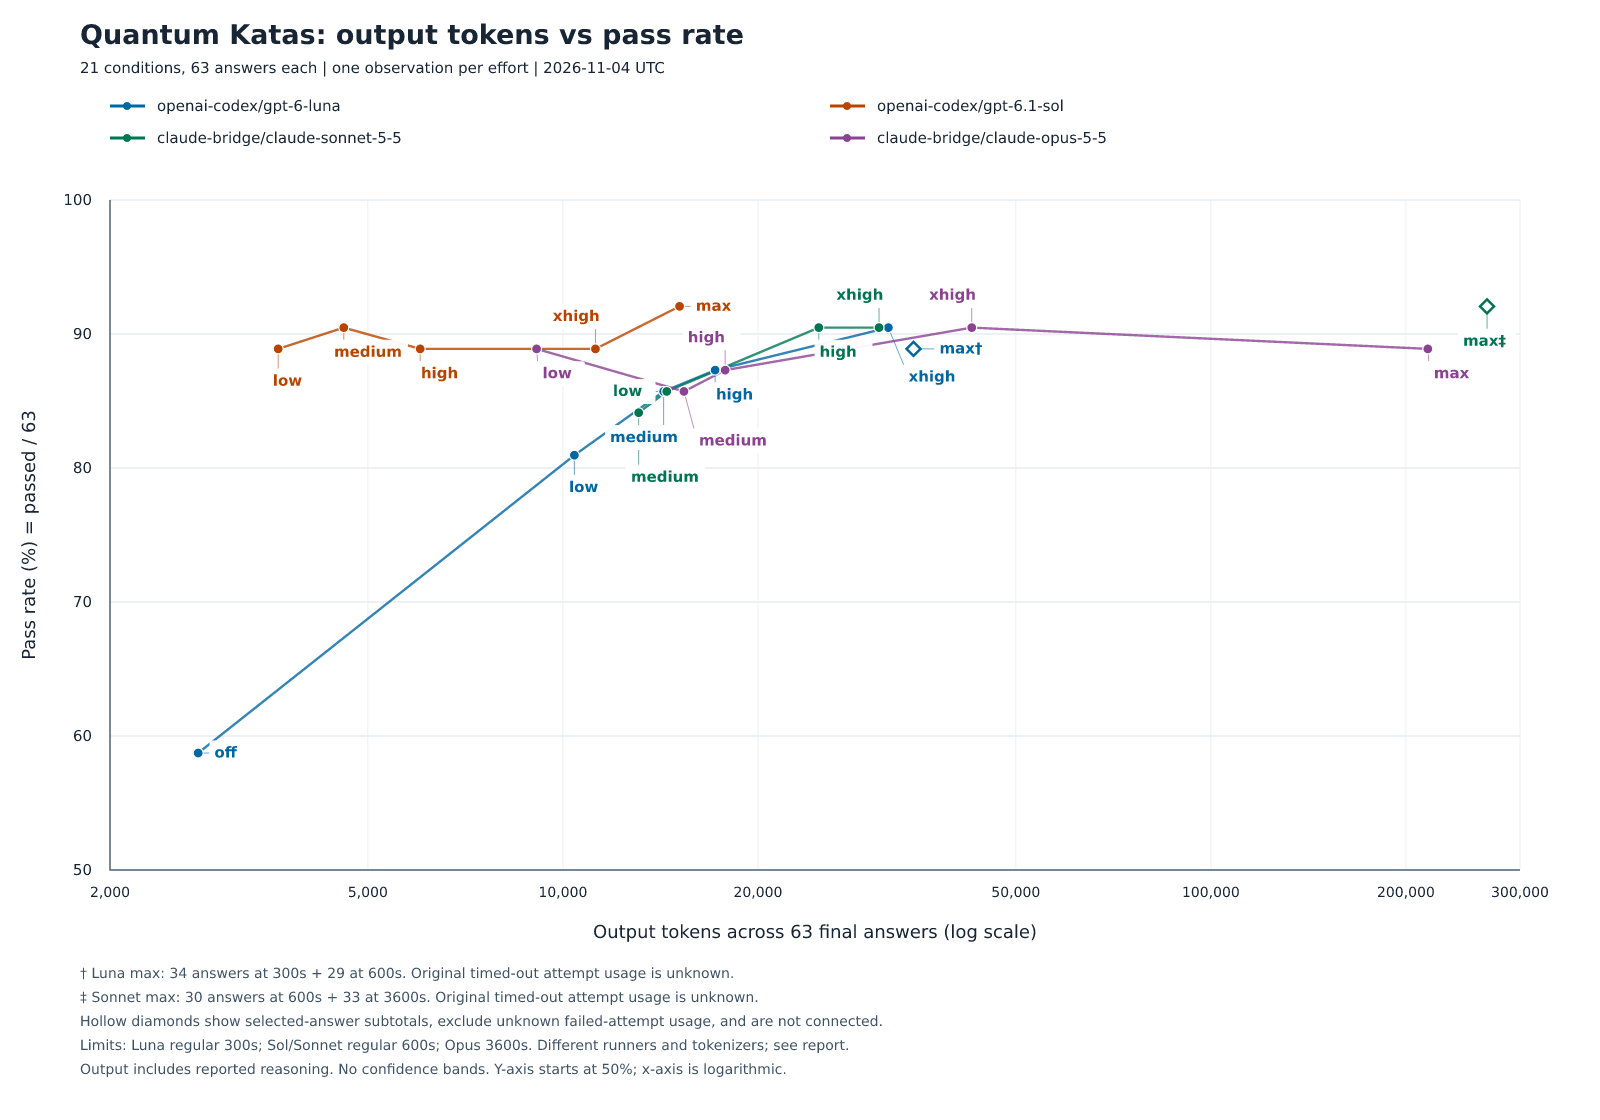
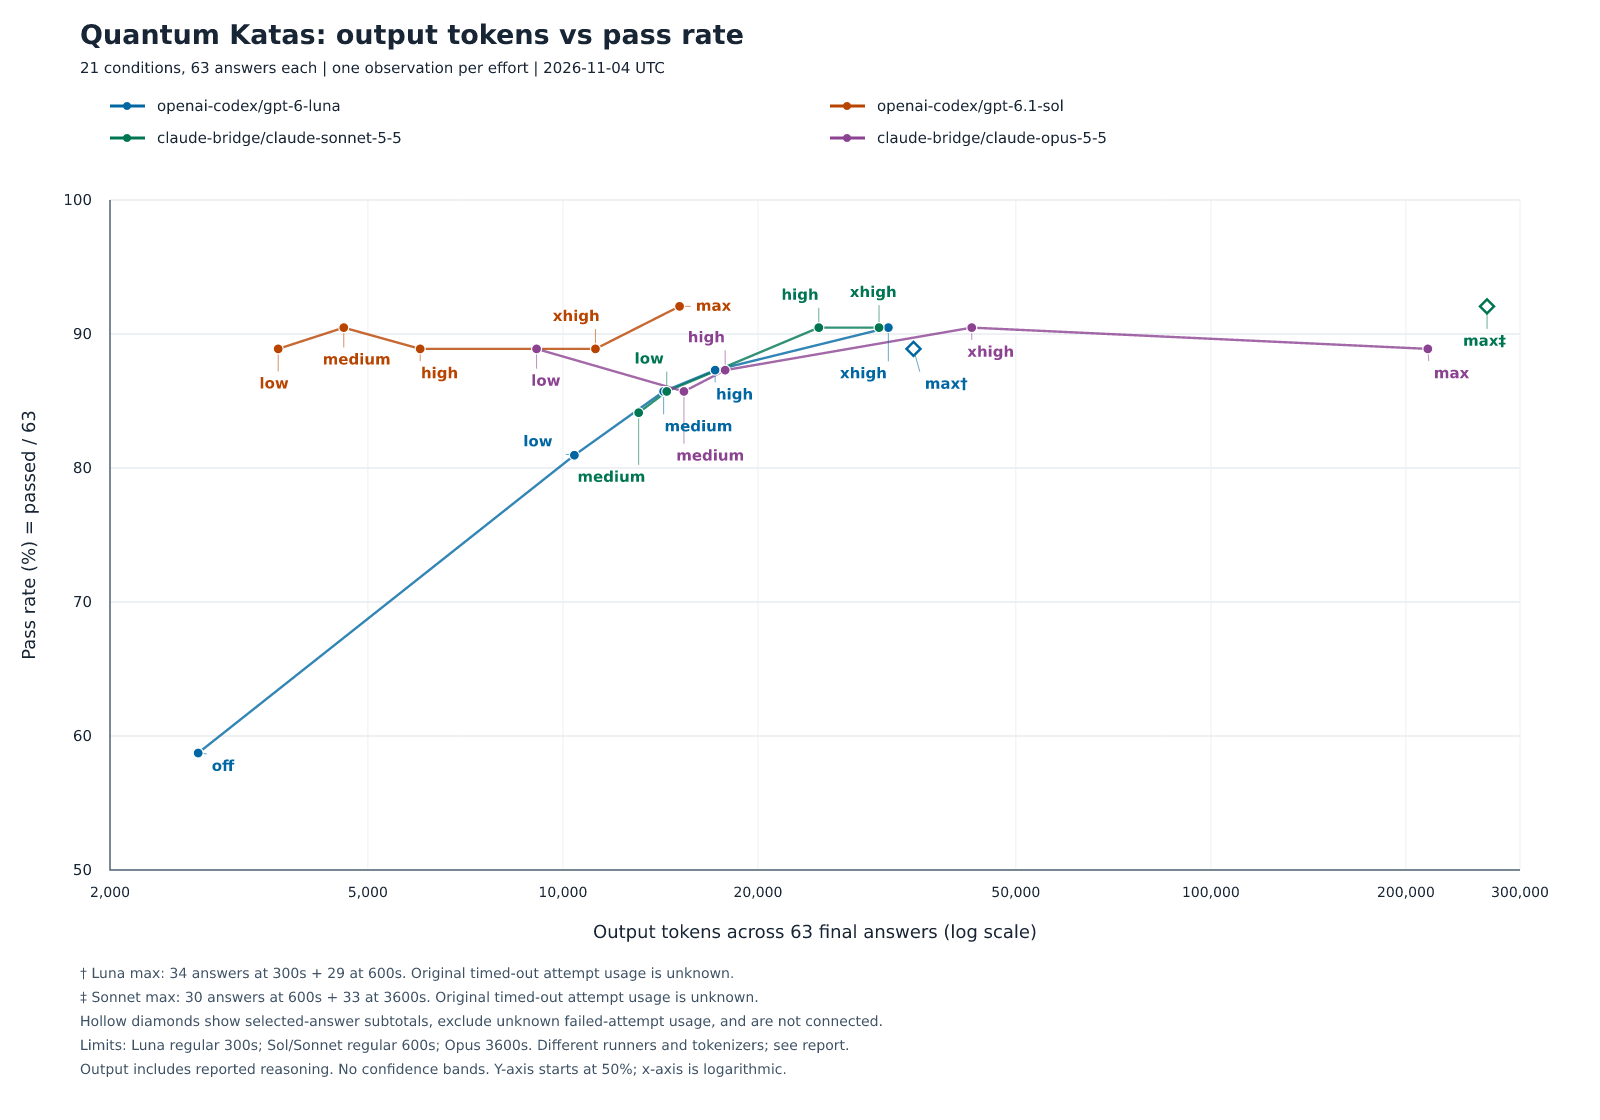
research: 集計の原コードを保存し比較図の線を隠さない
元の generatorSha256 と一致する収集コードおよび両継続条件の組み立てコードを保存し、非公開入力の要件と再導出の限界を説明する。隔離した入力の複製から既存5586ファイルの一致を確認済み。図のラベルと接続線の交差を避け、JSONと結果表の再生成一致も検証する。モデル呼び出しと再採点は行わない。

diff --git a/scripts/plot_model_effort_matrix.js b/scripts/plot_model_effort_matrix.js
@@ -75,6 +75,21 @@ function loadMatrix(
   const manifest = JSON.parse(
     fs.readFileSync(path.resolve(root, manifestPath))
   );
+  const derivationDir = `${BASE}/derivation-sources`;
+  const derivation = json(`${derivationDir}/source-index.json`);
+  assert.equal(derivation.schemaVersion, 1);
+  assert.deepEqual(Object.keys(derivation.sources).sort(), [
+    "assemble-luna-max-once.mjs",
+    "assemble-sonnet-max-once.mjs",
+    "collect-final-matrix.mjs",
+  ]);
+  for (const [source, expected] of Object.entries(derivation.sources))
+    verify(`${derivationDir}/${source}`, expected);
+  assert.equal(
+    derivation.sources["collect-final-matrix.mjs"],
+    manifest.generatorSha256,
+    "Collector identity mismatch"
+  );
   for (const [source, expected] of Object.entries(
     json(`${BASE}/source-artifact-sha256.json`)
   ))
@@ -459,6 +474,35 @@ function renderSvg(matrix) {
     py: y(p.passRatePercent),
     color: SERIES.find((s) => s.model === p.model).color,
   }));
+  const segments = SERIES.flatMap((s) => {
+    const points = positions
+      .filter((p) => p.model === s.model && !p.resumed)
+      .sort((a, b) => a.px - b.px);
+    return points.slice(1).map((p, i) => [points[i], p]);
+  });
+  // Liang-Barsky clipping: labels must not touch any model's connecting segment.
+  const intersects = ([a, b], box) => {
+    const dx = b.px - a.px,
+      dy = b.py - a.py;
+    let enter = 0,
+      leave = 1;
+    for (const [p, q] of [
+      [-dx, a.px - box.x + 3],
+      [dx, box.x + box.w + 3 - a.px],
+      [-dy, a.py - box.y + 3],
+      [dy, box.y + box.h + 3 - a.py],
+    ]) {
+      if (p === 0) {
+        if (q < 0) return false;
+      } else {
+        const t = q / p;
+        if (p < 0) enter = Math.max(enter, t);
+        else leave = Math.min(leave, t);
+        if (enter > leave) return false;
+      }
+    }
+    return true;
+  };
   const labels = [];
   for (const p of [...positions].sort((a, b) => a.py - b.py || a.px - b.px)) {
     const w = p.label.length * 10.5 + 16,
@@ -502,6 +546,7 @@ function renderSvg(matrix) {
       const score =
         (overlap ? 100000 : 0) +
         (marker ? 100000 : 0) +
+        (segments.some((s) => intersects(s, b)) ? 100000 : 0) +
         Math.hypot(dx + w / 2, dy + h / 2);
       if (!best || score < best.score) best = { score, box: b, point: p };
     }
@@ -536,7 +581,7 @@ function renderSvg(matrix) {
   }
   for (const l of labels)
     out.push(
-      `<rect x="${l.box.x}" y="${l.box.y}" width="${l.box.w}" height="${l.box.h}" rx="3" fill="white" fill-opacity="0.94"/><text x="${l.box.x + 5}" y="${l.box.y + 17}" fill="${l.point.color}" font-size="15" font-weight="bold">${xml(l.point.label)}</text>`
+      `<text x="${l.box.x + 5}" y="${l.box.y + 17}" fill="${l.point.color}" font-size="15" font-weight="bold">${xml(l.point.label)}</text>`
     );
   const notes = [
     "† Luna max: 34 answers at 300s + 29 at 600s. Original timed-out attempt usage is unknown.",
@@ -598,27 +643,25 @@ function renderPng(root, svg) {
     .render()
     .asPng();
 }
+function buildPlotData(root, matrix) {
+  return {
+    ...matrix,
+    fontSha256: fontFiles(root).map((f) => ({
+      name: path.basename(f),
+      sha256: sha(fs.readFileSync(f)),
+    })),
+  };
+}
 function writePlot(root, matrix, output = DEFAULT_OUTPUT) {
   const prefix = path.resolve(root, output);
   fs.mkdirSync(path.dirname(prefix), { recursive: true });
-  const fonts = fontFiles(root);
   const svg = renderSvg(matrix);
   const png = renderPng(root, svg);
   fs.writeFileSync(prefix + ".svg", svg);
   fs.writeFileSync(prefix + ".png", png);
   fs.writeFileSync(
     prefix + ".json",
-    JSON.stringify(
-      {
-        ...matrix,
-        fontSha256: fonts.map((f) => ({
-          name: path.basename(f),
-          sha256: sha(fs.readFileSync(f)),
-        })),
-      },
-      null,
-      2
-    ) + "\n"
+    JSON.stringify(buildPlotData(root, matrix), null, 2) + "\n"
   );
   fs.writeFileSync(
     path.join(root, BASE, "matrix-results.md"),
@@ -655,6 +698,7 @@ module.exports = {
   loadMatrix,
   renderSvg,
   renderPng,
+  buildPlotData,
   writePlot,
   formatTables,
   DEFAULT_MANIFEST,

diff --git a/scripts/plot_model_effort_matrix.test.js b/scripts/plot_model_effort_matrix.test.js
@@ -9,6 +9,8 @@ const {
   loadMatrix,
   renderSvg,
   renderPng,
+  buildPlotData,
+  formatTables,
   DEFAULT_MANIFEST,
   DEFAULT_OUTPUT,
 } = require("./plot_model_effort_matrix.js");
@@ -47,6 +49,8 @@ test("SVG has 21 data-matched points and four x-ordered lines without confidence
   );
   assert.equal((svg.match(/data-point-id=/g) || []).length, 21);
   assert.equal((svg.match(/<polyline /g) || []).length, 4);
+  // The only rectangle is the canvas background, drawn before all data lines.
+  assert.equal((svg.match(/<rect /g) || []).length, 1);
   for (const p of matrix.points) {
     assert.ok(
       svg.includes(
@@ -88,6 +92,56 @@ test("rejects a changed source hash rather than plotting stale or altered record
   }
 });
 
+test("rejects a manifest whose collector identity differs from the archived source", () => {
+  const directory = fs.mkdtempSync(
+    path.join(os.tmpdir(), "qni-matrix-collector-")
+  );
+  try {
+    const manifest = JSON.parse(
+      fs.readFileSync(path.join(root, DEFAULT_MANIFEST), "utf8")
+    );
+    manifest.generatorSha256 = "0".repeat(64);
+    const file = path.join(directory, "manifest.json");
+    fs.writeFileSync(file, JSON.stringify(manifest));
+    assert.throws(() => loadMatrix(root, file), /Collector identity mismatch/);
+  } finally {
+    fs.rmSync(directory, { recursive: true, force: true });
+  }
+});
+
+test("rejects altered continuation assembly source bytes", () => {
+  const directory = fs.mkdtempSync(
+    path.join(os.tmpdir(), "qni-matrix-assembly-")
+  );
+  try {
+    const base = path.dirname(DEFAULT_MANIFEST);
+    fs.mkdirSync(path.join(directory, base), { recursive: true });
+    fs.copyFileSync(
+      path.join(root, DEFAULT_MANIFEST),
+      path.join(directory, DEFAULT_MANIFEST)
+    );
+    fs.cpSync(
+      path.join(root, base, "derivation-sources"),
+      path.join(directory, base, "derivation-sources"),
+      { recursive: true }
+    );
+    fs.appendFileSync(
+      path.join(
+        directory,
+        base,
+        "derivation-sources/assemble-sonnet-max-once.mjs"
+      ),
+      "\n"
+    );
+    assert.throws(
+      () => loadMatrix(directory),
+      /SHA-256 mismatch:.*assemble-sonnet-max-once\.mjs/
+    );
+  } finally {
+    fs.rmSync(directory, { recursive: true, force: true });
+  }
+});
+
 test("check-only runs with no credentials, no Pi on PATH, and no artifact changes", () => {
   const directory = fs.mkdtempSync(path.join(os.tmpdir(), "qni-matrix-cli-"));
   const before = fs.readFileSync(path.join(root, DEFAULT_OUTPUT + ".svg"));
@@ -111,6 +165,28 @@ test("check-only runs with no credentials, no Pi on PATH, and no artifact change
   } finally {
     fs.rmSync(directory, { recursive: true, force: true });
   }
+});
+
+test("published plot JSON exactly matches regenerated data", () => {
+  const expected =
+    JSON.stringify(buildPlotData(root, loadMatrix(root)), null, 2) + "\n";
+  assert.equal(
+    fs.readFileSync(path.join(root, DEFAULT_OUTPUT + ".json"), "utf8"),
+    expected
+  );
+});
+
+test("published result table exactly matches regenerated Markdown", () => {
+  assert.equal(
+    fs.readFileSync(
+      path.join(
+        root,
+        "research/analyses/model-effort-matrix-2026-11-04/matrix-results.md"
+      ),
+      "utf8"
+    ),
+    formatTables(loadMatrix(root))
+  );
 });
 
 test("published PNG is nonblank at the documented resolution", () => {

diff --git a/research/analyses/model-effort-matrix-2026-11-04/derivation-sources/README.md b/research/analyses/model-effort-matrix-2026-11-04/derivation-sources/README.md
@@ -1,0 +1,45 @@
+# 集計に使った原コードと再導出の条件
+
+ここには測定後に実行した3本の原コードを、バイト列を変えずに保存した。モデルの実行を管理するコードではなく、保存済みファイルを読み、分析用のファイルを作るコードである。モデル呼び出しも再採点も行わない。元の絶対パスと、既存出力を上書きしない `wx` などの保護も残した。通常の保守対象として整形・書き換えない。
+
+| ファイル | 実際に作ったもの |
+| --- | --- |
+| `assemble-luna-max-once.mjs` | 元の34回答と新しい29回答の出典付き63回答分析、元の34回答の初回採点結果のコピー、Luna の中断記録の公開用コピー |
+| `assemble-sonnet-max-once.mjs` | 元の30回答と新しい33回答の出典付き63回答分析、元の30回答の初回採点結果のコピー |
+| `collect-final-matrix.mjs` | 23組の試行・中断記録の一覧、21点の一覧、1,325呼び出しの利用量索引、中断時の実行条件のコピー |
+
+`source-index.json` はこの3ファイルの SHA-256 である。上位の `matrix-manifest.json` にある `generatorSha256` は `collect-final-matrix.mjs` のハッシュを指す。図を描く `scripts/plot_model_effort_matrix.js` のハッシュではない。この元の値は変更していない。図の検証コマンドは、3本それぞれのハッシュと、収集コードのハッシュが `generatorSha256` に一致することも検証する。
+
+```bash
+node scripts/plot_model_effort_matrix.js --check
+```
+
+## 公開記録だけで再生成できる範囲
+
+公開された正式な研究試行、中断記録の公開用コピー、保存済みの初回採点結果、出典付き63回答分析、利用量索引から、表・図・図の JSON は再生成できる。ハッシュ、課題の分割、採点結果、通常の利用量、集計を照合できる。
+
+一方、`calls.json` の通常の利用量項目には独立した `reasoning` 欄がない。`call-usage-index.json` の `reportedReasoning` と分析ファイルの `reasoning` は、生 JSONL の最後の assistant `message_end` にある `usage.reasoning` から抽出した。したがって、reasoning 索引の独立した再導出には非公開の生ログが必要である。公開索引の数字だけを使った再集計はできても、その抽出元まで公開記録だけで確認できるとは主張しない。`--check-raw` は実際の JSONL がある場合だけ、そのハッシュと各利用量の一致も検証する。
+
+Codex の Pi は提供元の内訳欠測も0へ変換する。そのため、生 JSONL があっても、記録の0が実際の思考量0なのかは判別できない。Bridge の欠測は不明のまま扱う。時間切れ2件の全利用量も不明のままであり、このコードの公開によって復元できるわけではない。
+
+## 原コードの再実行に必要な非公開入力
+
+3本の原コードは当時のパスを固定している。完全な再導出には以下の入力を保存時と同じパスで参照できる、隔離した作業領域が必要である。認証情報や OAuth の設定は不要であり、復元対象に含めない。
+
+1. 作業ディレクトリの `research/runs/*-effort-matrix-*`。正式な21試行の保存済み記録をそのまま使う。63課題の通常試行19組と、29課題・33課題の継続試行2組である。
+2. Sonnet の公開用中断記録 `research/partials/2026-11-04T053004Z-effort-matrix-v2-claude-bridge-claude-sonnet-5-5-max-600s-aborted`。Sonnet の組み立てコードはこの既存コピーを参照する。Luna の公開用中断記録は Luna のコード自身が作る。
+3. 元の中断ディレクトリ `/tmp/qni-research-solve-Rvsq3k` と `/tmp/qni-research-solve-PIFogg`。計画ファイルの全ハッシュを照合するため、公開用コピーから省いた診断も含めて必要である。診断は出力先へコピーしない。
+4. `/tmp/qni-model-effort-matrix-evidence/matrix-conditions/` の23組の保存済み入力。`started.json`、`execution-envelope.json`、`validated.json`、`raw-call-index.json`、`raw/*/events.jsonl` を参照する。計1,325呼び出しの生 JSONL は公開していない。
+5. 同じ証拠ディレクトリの `LUNA-MAX-CONTINUATION-PLAN.json`、`SONNET-MAX-CONTINUATION-PLAN.json`、`matrix-600-command-candidates.json`、`matrix-3600-command-candidates.json`。元のハッシュ、継続先、参照する保存済み試行を特定する入力であり、モデルの実行には使わない。
+6. 同じ場所の `original34-grading-index.json`、`original30-grading-index.json` と、そこから参照する `luna-max-continuation-original34-grading/`、`sonnet-max-original30-grading/` の保存済み初回採点 JSON。再採点して作り直さない。
+7. この3本の原コードを同じ証拠ディレクトリへ複製したもの。収集コードは自分の元の絶対パスを使って `generatorSha256` を計算する。
+
+これらの入力を複製し、原本を読み取り専用にした隔離ファイルシステムで、次の順に実行する。既存の証拠ディレクトリや研究記録を出力先にしない。出力先には Luna の中断コピー、両条件の分析・採点コピー、`attempt-envelopes/`、利用量索引、一覧を事前配置しない。証拠ディレクトリ側の `luna-max-derived63-validated.json` と `sonnet-max-derived63-validated.json` も新規出力なので事前配置しない。
+
+```text
+assemble-luna-max-once.mjs
+assemble-sonnet-max-once.mjs
+collect-final-matrix.mjs
+```
+
+今回のレビュー対応では、ネットワークを無効にし、認証情報のない環境で、非公開入力の複製からこの3本を実行し直した。既存の `source-artifact-sha256.json` を変更せず、対象5,586ファイルのバイト列一致と1,325生ログの対応を確認した。モデル呼び出し・再採点は0件である。再実行の記録と非公開入力そのものは証拠ディレクトリに保持し、公開していない。

diff --git a/docs/reports/model-effort-matrix-2026-11-04.md b/docs/reports/model-effort-matrix-2026-11-04.md
@@ -69,7 +69,11 @@ node scripts/plot_model_effort_matrix.js --check
 node scripts/plot_model_effort_matrix.js
 ```
 
-`--check` は保存済み23組の試行・中断記録と、1,325呼び出しの利用量索引、回答と採点結果のハッシュ、63課題の集合、各集計を照合する。描画は保存済み記録だけを使い、モデルも採点器も呼ばない。PNG は既存の Matplotlib 3.10.8 に同梱された DejaVu Sans と、ロックファイルで固定した resvg を使う。
+`--check` は保存済み23組の試行・中断記録と、1,325呼び出しの利用量索引、回答と採点結果のハッシュ、63課題の集合、各集計を照合する。収集・組み立てに実際に使った3本の原コードも[ハッシュ付きで保存した](../../research/analyses/model-effort-matrix-2026-11-04/derivation-sources/README.md)。`matrix-manifest.json` の `generatorSha256` は、描画コードではなく、この収集コードのハッシュであり、検証時に照合する。描画は保存済み記録だけを使い、モデルも採点器も呼ばない。PNG は既存の Matplotlib 3.10.8 に同梱された DejaVu Sans と、ロックファイルで固定した resvg を使う。
+
+公開記録だけで表と図は再生成できるが、reasoning 索引の独立した再導出には非公開の生ログが必要である。通常の `calls.json` にはその内訳がなく、`call-usage-index.json` の `reportedReasoning` は生 JSONL から抽出している。公開索引だけで抽出元まで検証できるとは主張しない。原コードの再実行には、保存済みの初回採点結果、計画ファイル、元の中断記録なども必要であり、上記の説明に一覧を記載した。
+
+レビュー対応では非公開入力を複製し、ネットワークを無効にした隔離環境で3本を再実行した。既存5,586ファイルのハッシュと1,325生ログの対応が一致した。モデル呼び出しも再採点もしていない。
 
 外部に保存した生 JSONL がある実行環境では、次でそのハッシュと利用量の対応も再確認できる。
 
@@ -77,4 +81,4 @@ node scripts/plot_model_effort_matrix.js
 node scripts/plot_model_effort_matrix.js --check --check-raw
 ```
 
-再生成用の自動テストには認証情報を渡さず、Pi が PATH にない環境でも検証できることを確認する。SVG の21点と4本の線、横軸順、出力単位と合格率、PNG の解像度と非空描画も検証する。
+再生成用の自動テストには認証情報を渡さず、Pi が PATH にない環境でも検証できることを確認する。SVG の21点と4本の線、横軸順、出力単位と合格率、PNG の解像度と非空描画に加え、SVG・PNG・図の JSON・結果表が再生成結果と一致することも検証する。ラベルは4系列の接続線との交差を避けて配置し、線を隠す不透明な背景は使わない。

diff --git a/features/docs/model_effort_matrix_report.feature.md b/features/docs/model_effort_matrix_report.feature.md
@@ -16,6 +16,10 @@
 
 - Then リポジトリファイル "docs/reports/model-effort-matrix-2026-11-04.md" は "300秒・600秒・3,600秒" を含む
 
+## Scenario: 思考内訳の独立した再導出に必要な非公開入力を説明する
+
+- Then リポジトリファイル "docs/reports/model-effort-matrix-2026-11-04.md" は "reasoning 索引の独立した再導出には非公開の生ログが必要" を含む
+
 ## Scenario: 単一観測に架空の信頼区間を付けない
 
 - Then リポジトリファイル "docs/reports/model-effort-matrix-2026-11-04.md" は "信頼区間は付けない" を含む
